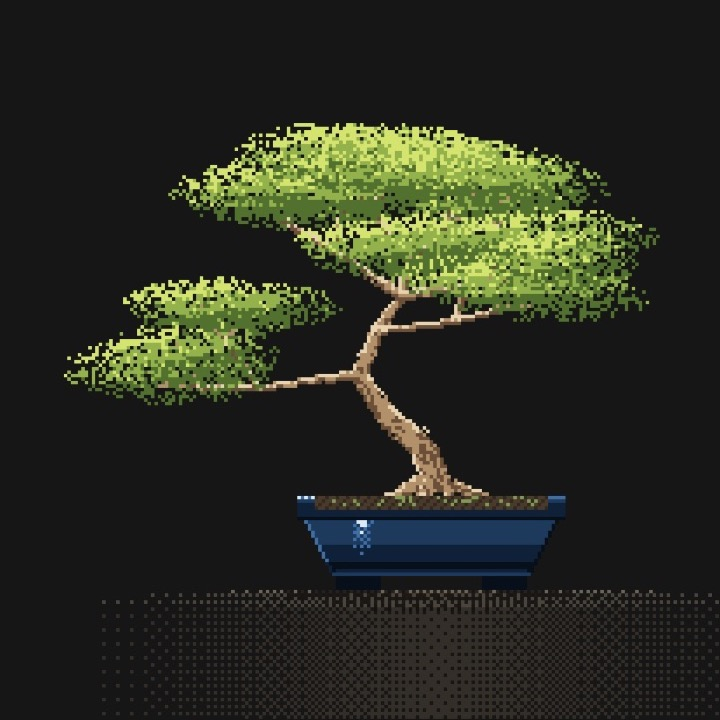
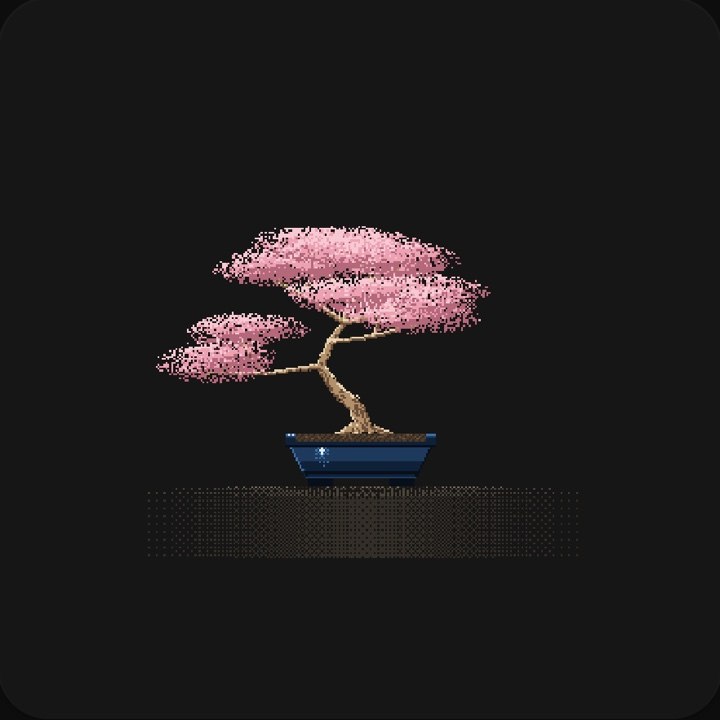
Tessera update

Changed region(s): [[0.0917, 0.1528, 1.0, 1.0], [0.9778, 0.9778, 1.0, 1.0]]

diff --git a/app/tessera/Game.tsx b/app/tessera/Game.tsx
@@ -259,22 +259,26 @@ function Die({
         value === null
           ? "Roll the die"
           : prompt
-            ? `Roll the die. It shows ${value}.`
+            ? "Roll the die"
             : `The die shows ${value}.`
       }
     >
-      {Array.from({ length: 9 }).map((_, idx) => {
-        const row = Math.floor(idx / 3);
-        const col = idx % 3;
-        const on = (value === null ? [] : PIPS[value] || []).some(
-          ([r, c]) => r === row && c === col,
-        );
-        return (
-          <span key={idx} className={s.pipCell}>
-            <span className={`${s.pip} ${on ? s.pipOn : ""}`} />
-          </span>
-        );
-      })}
+      {prompt && !rolling ? (
+        <span className={s.dieLabel}>Roll</span>
+      ) : (
+        Array.from({ length: 9 }).map((_, idx) => {
+          const row = Math.floor(idx / 3);
+          const col = idx % 3;
+          const on = (value === null ? [] : PIPS[value] || []).some(
+            ([r, c]) => r === row && c === col,
+          );
+          return (
+            <span key={idx} className={s.pipCell}>
+              <span className={`${s.pip} ${on ? s.pipOn : ""}`} />
+            </span>
+          );
+        })
+      )}
     </button>
   );
 }
@@ -311,6 +315,18 @@ export default function TesseraGame({
   const [wins, setWins] = useState({ p1: 0, p2: 0 });
   const [muted, setMuted] = useState(false);
   const [settingsOpen, setSettingsOpen] = useState(false);
+  const [splash, setSplash] = useState<"on" | "leaving" | "off">(
+    inApp ? "on" : "off",
+  );
+
+  useEffect(() => {
+    if (splash === "off") return;
+    const t = window.setTimeout(
+      () => setSplash(splash === "on" ? "leaving" : "off"),
+      splash === "on" ? 2100 : 320,
+    );
+    return () => window.clearTimeout(t);
+  }, [splash]);
 
   useEffect(() => {
     if (!settingsOpen && !confirmDialog) return;
@@ -549,12 +565,25 @@ export default function TesseraGame({
 
   return (
     <div className={`${s.root} ${inApp ? s.inApp : ""}`}>
+      {splash !== "off" && (
+        <div
+          className={`${s.splash} ${splash === "leaving" ? s.splashOut : ""}`}
+          onClick={() => setSplash("leaving")}
+          aria-hidden="true"
+        >
+          <HexMark className={s.splashMark} draw />
+        </div>
+      )}
       <div className={s.column}>
         {back}
 
         <header className={s.head}>
           <h1 className={s.title}>
-            <span className={s.logo} aria-hidden="true" />
+            {inApp ? (
+              <HexMark className={s.mark} />
+            ) : (
+              <span className={s.logo} aria-hidden="true" />
+            )}
             Tessera
           </h1>
           {lede}
@@ -956,6 +985,81 @@ export default function TesseraGame({
         </div>
       )}
     </div>
+  );
+}
+
+const HEX_R = 328;
+const HEX_PTS = [120, 60, 0, 300, 240, 180].map((a) => {
+  const r = (a * Math.PI) / 180;
+  return [HEX_R * Math.cos(r), -HEX_R * Math.sin(r)];
+});
+const HEX_C = [0, 0];
+const [TL, TR, RR, BR, BL, LL] = HEX_PTS;
+const HEX_EDGES: [number[], number[], string][] = [
+  [TL, TR, COLORS.p2],
+  [TR, RR, COLORS.p2],
+  [RR, BR, COLORS.p2],
+  [BR, BL, COLORS.p1],
+  [BL, LL, COLORS.p1],
+  [LL, TL, COLORS.p1],
+  [HEX_C, TR, COLORS.p2],
+  [HEX_C, RR, COLORS.p2],
+  [HEX_C, BR, COLORS.p2],
+  [HEX_C, TL, COLORS.p1],
+  [HEX_C, LL, COLORS.p1],
+  [HEX_C, BL, COLORS.p1],
+];
+const HEX_TRIS: [number[][], string][] = [
+  [[TL, LL, HEX_C], COLORS.p1soft],
+  [[LL, BL, HEX_C], COLORS.p1soft],
+  [[BL, BR, HEX_C], COLORS.p1soft],
+  [[TL, TR, HEX_C], COLORS.p2soft],
+  [[TR, RR, HEX_C], COLORS.p2soft],
+  [[RR, BR, HEX_C], COLORS.p2soft],
+];
+
+function HexMark({ className, draw }: { className?: string; draw?: boolean }) {
+  return (
+    <svg
+      className={`${className ?? ""} ${draw ? s.hexDraw : ""}`}
+      viewBox="-370 -340 740 680"
+      aria-hidden="true"
+    >
+      {HEX_TRIS.map(([pts, fill], i) => (
+        <polygon
+          key={`t${i}`}
+          className={s.hexFill}
+          points={pts.map((p) => p.join(",")).join(" ")}
+          fill={fill}
+        />
+      ))}
+      {HEX_EDGES.map(([a, b, color], i) => (
+        <line
+          key={`e${i}`}
+          className={s.hexLine}
+          style={{ "--i": i } as React.CSSProperties}
+          x1={a[0]}
+          y1={a[1]}
+          x2={b[0]}
+          y2={b[1]}
+          stroke={color}
+          strokeWidth={26}
+          strokeLinecap="round"
+          pathLength={1}
+        />
+      ))}
+      {[...HEX_PTS, HEX_C].map((p, i) => (
+        <circle
+          key={`d${i}`}
+          className={s.hexDot}
+          style={{ "--i": i } as React.CSSProperties}
+          cx={p[0]}
+          cy={p[1]}
+          r={23}
+          fill="#ecebe7"
+        />
+      ))}
+    </svg>
   );
 }
 

diff --git a/app/tessera/tessera.module.css b/app/tessera/tessera.module.css
@@ -869,3 +869,100 @@
   align-self: flex-start;
   margin-top: var(--space-2);
 }
+
+@media (max-width: 520px) {
+  .inApp .controls .spacer {
+    display: block;
+    flex: 0 0 100%;
+    height: 0;
+  }
+}
+
+.mark {
+  flex-shrink: 0;
+  width: 30px;
+  height: 28px;
+}
+
+.splash {
+  position: fixed;
+  inset: 0;
+  z-index: 300;
+  display: grid;
+  place-items: center;
+  background: var(--color-bg);
+  transition: opacity 320ms var(--ease-out);
+}
+
+.splashOut {
+  opacity: 0;
+  pointer-events: none;
+}
+
+.splashMark {
+  width: min(56vw, 260px);
+  height: auto;
+  overflow: visible;
+}
+
+.hexDraw .hexLine {
+  stroke-dasharray: 1;
+  stroke-dashoffset: 1;
+  animation: hexLine 260ms cubic-bezier(0.16, 1, 0.3, 1) forwards;
+  animation-delay: calc(var(--i) * 85ms + 220ms);
+}
+
+.hexDraw .hexDot {
+  opacity: 0;
+  transform: scale(0.4);
+  transform-box: fill-box;
+  transform-origin: center;
+  animation: hexDot 240ms cubic-bezier(0.16, 1, 0.3, 1) forwards;
+  animation-delay: calc(var(--i) * 30ms);
+}
+
+.hexDraw .hexFill {
+  opacity: 0;
+  animation: hexFill 360ms ease-out forwards;
+  animation-delay: 1380ms;
+}
+
+@keyframes hexLine {
+  to {
+    stroke-dashoffset: 0;
+  }
+}
+
+@keyframes hexDot {
+  to {
+    opacity: 1;
+    transform: scale(1);
+  }
+}
+
+@keyframes hexFill {
+  to {
+    opacity: 1;
+  }
+}
+
+@media (prefers-reduced-motion: reduce) {
+  .hexDraw .hexLine,
+  .hexDraw .hexDot,
+  .hexDraw .hexFill {
+    animation: hexFill 240ms ease-out forwards;
+    animation-delay: 0ms;
+    stroke-dashoffset: 0;
+    transform: none;
+  }
+}
+
+.dieLabel {
+  grid-column: 1 / -1;
+  grid-row: 1 / -1;
+  place-self: center;
+  font-size: 16px;
+  font-weight: 600;
+  letter-spacing: -0.01em;
+  color: var(--color-on-brand);
+}

diff --git a/app/page.tsx b/app/page.tsx
@@ -180,17 +180,17 @@ export default function Homepage() {
               <h2 className={styles.label}>Playground</h2>
               <div className={styles.shelf}>
                 <figure>
-                  <FaceCard />
-                  <figcaption>
-                    <span>Particles</span> Hover or tap
-                  </figcaption>
-                </figure>
-                <figure>
                   <div className={styles.ignitionCard}>
                     <Finale card />
                   </div>
                   <figcaption>
                     <span>Ignition</span> Lift and press
+                  </figcaption>
+                </figure>
+                <figure>
+                  <FaceCard />
+                  <figcaption>
+                    <span>Particles</span> Hover or tap
                   </figcaption>
                 </figure>
                 <figure className={styles.coinFigure}>

diff --git a/app/_home/data.ts b/app/_home/data.ts
@@ -107,6 +107,10 @@ export const PLAY: Piece[] = [
     line: "A triangle game for two.",
     kind: "Game",
     href: "/tessera",
+    live: {
+      label: "App Store",
+      href: "https://apps.apple.com/us/app/tessera-the-triangle-game/id6774786982",
+    },
     image: "/home/peek/tessera.jpg",
   },
   {
@@ -138,7 +142,7 @@ export const PLAY: Piece[] = [
 export const TOYS = [
   {
     title: "Bonsai",
-    verb: "Shake the leaves off",
+    verb: "Shake it",
     embed: "/pixel-bonsai?card=1",
     image: "/home/play/pixel-bonsai.jpg",
   },

diff --git a/app/tessera/page.tsx b/app/tessera/page.tsx
@@ -14,6 +14,14 @@ export default function TesseraPage() {
           </span>{" "}
           Roll the die, draw that many lines and close triangles to claim them.
           Whoever holds the most triangles when the board is full wins.
+          It&rsquo;s also on the{" "}
+          <a
+            className={s.link}
+            href="https://apps.apple.com/us/app/tessera-the-triangle-game/id6774786982"
+          >
+            App Store
+          </a>
+          .
         </p>
       }
       foot={

diff --git a/public/pixel-bonsai/js/main.js b/public/pixel-bonsai/js/main.js
@@ -27,8 +27,8 @@ const tune = BONSAI.interaction;
 
 const inCard = document.documentElement.classList.contains("card");
 const CARD_LEAVES = {
-  leaf: ["#a87f60", "#7a5440", "#4e3426"],
-  accent: "#c9a07c",
+  leaf: ["#f7c9d3", "#eca2b2", "#b4687a"],
+  accent: "#fde0e6",
   moss: "#6b4f39",
 };
 const tree = growBonsai(

diff --git a/app/_signature/finale.module.css b/app/_signature/finale.module.css
@@ -497,8 +497,8 @@
 }
 
 .face img {
-  filter: grayscale(1) sepia(0.75) saturate(0.93) hue-rotate(-32deg)
-    brightness(0.67) contrast(1.4);
+  filter: grayscale(1) sepia(1) saturate(2.2) hue-rotate(26deg) brightness(1.8)
+    contrast(1.2);
 }
 
 .instant .face,

diff --git a/app/_home/home.module.css b/app/_home/home.module.css
@@ -197,6 +197,10 @@
     scale 0.2s var(--ease);
 }
 
+.about a.chip {
+  color: var(--ink);
+}
+
 .mark {
   display: grid;
   place-items: center;
